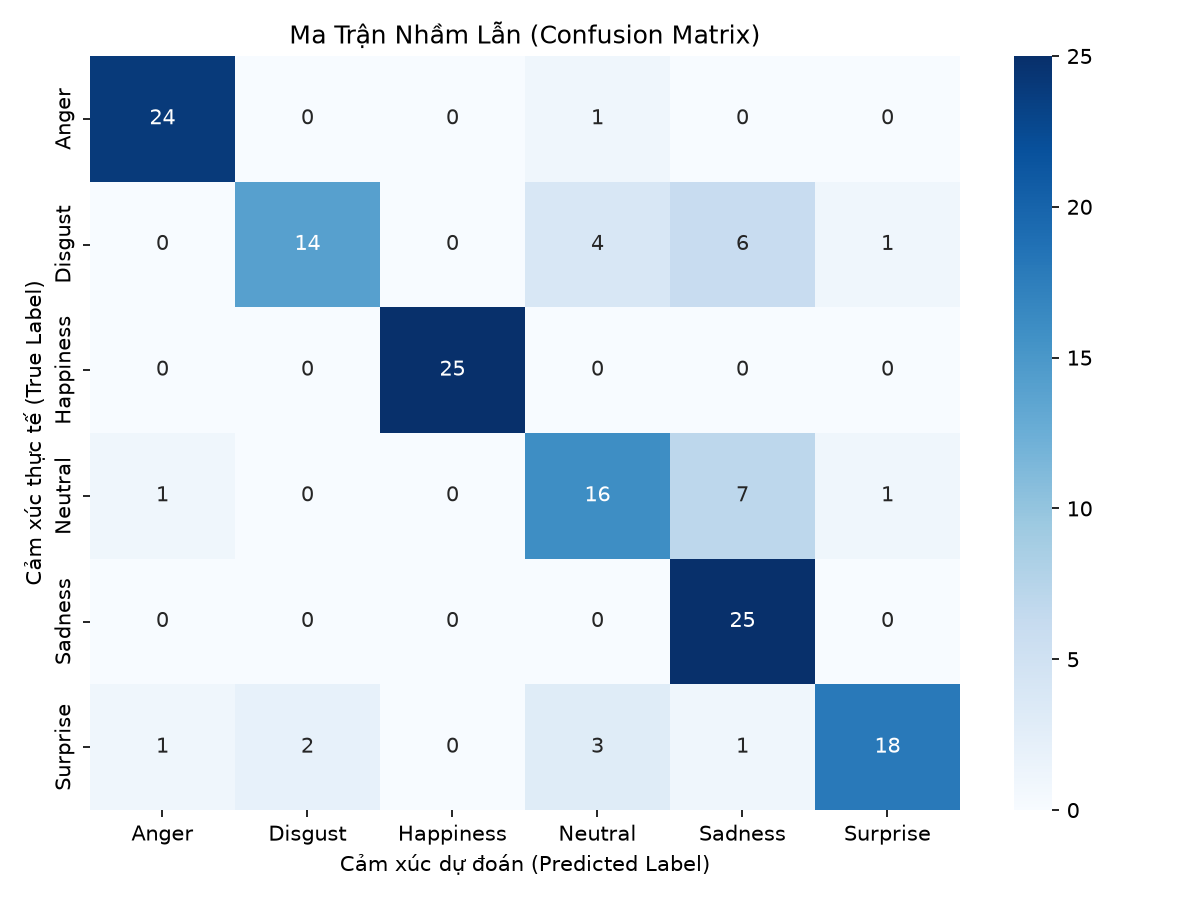
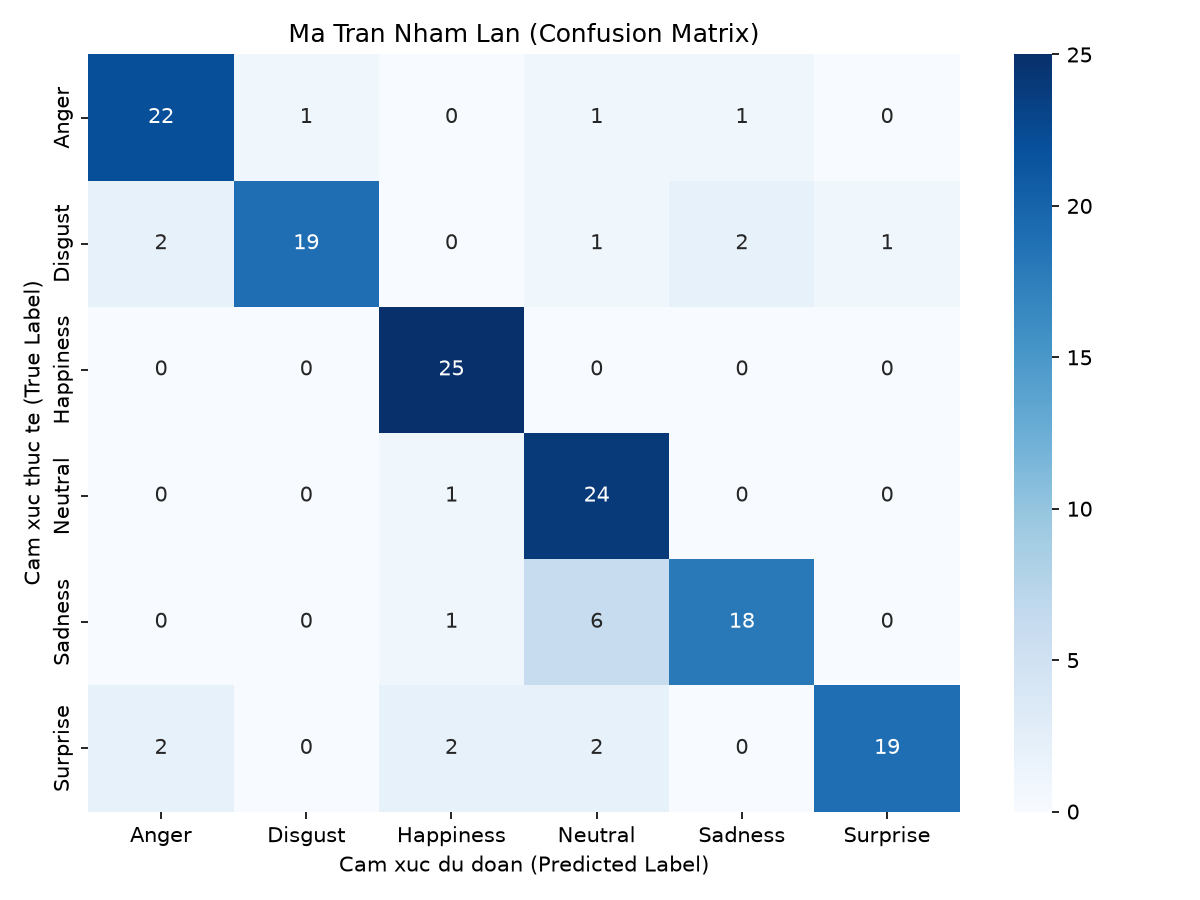
feat: integrate face cropping in evaluation script and clean test set

diff --git a/evaluate_note.py b/evaluate_note.py
@@ -1,6 +1,6 @@
 # -*- coding: utf-8 -*-
 """
-evaluate.py - Chuong trinh danh gia mo hinh tren tap kiem thu Dong Nam A
+evaluate.py - Chuong trinh danh gia mo hinh tren tap kiem thu Dong Nam A (co cat mat)
 Su dung: python evaluate.py
 """
 
@@ -24,7 +24,7 @@ def run_evaluation():  # [Dòng 16] Định nghĩa hàm run_evaluation thực hi
     y_true = []  # [Dòng 24] Khởi tạo mảng y_true trống để lưu lại danh sách nhãn cảm xúc đúng thực tế của ảnh.
     y_pred = []  # [Dòng 25] Khởi tạo mảng y_pred trống để lưu lại danh sách nhãn do AI dự đoán được.
 
-    print("\n--- Scanning test dataset ---")  # [Dòng 27] In thông báo bắt đầu quét tập dữ liệu kiểm thử ra màn hình.
+    print("\n--- Scanning test dataset with Face Cropping ---")  # [Dòng 27] In thông báo bắt đầu quét tập dữ liệu kiểm thử có dùng cắt mặt ra màn hình.
     for folder_name in EMOTIONS:  # [Dòng 28] Vòng lặp duyệt qua từng cảm xúc e trong 6 cảm xúc đích để quét các thư mục con tương ứng.
         folder_path = os.path.join(dataset_dir, folder_name)  # [Dòng 29] Tạo đường dẫn đầy đủ đến thư mục con của cảm xúc đó (ví dụ: dataset/test_dung1landuynhat/Happy).
         if not os.path.isdir(folder_path):  # [Dòng 30] Nếu thư mục con này không tồn tại, bỏ qua vòng lặp để tiếp tục quét thư mục khác.
@@ -39,38 +39,46 @@ def run_evaluation():  # [Dòng 16] Định nghĩa hàm run_evaluation thực hi
             if img is None:  # [Dòng 39] Nếu ảnh bị lỗi không đọc được (file hỏng), bỏ qua không xử lý ảnh này.
                 continue  # [Dòng 40] Bỏ qua vòng lặp hiện tại để xét ảnh tiếp theo.
                 
-            scores = eng.predict(img)  # [Dòng 42] Đưa ảnh vào hàm predict của EmotionEngine để chạy cân bằng sáng CLAHE và được AI trả về 6 điểm số cảm xúc.
-            idx = np.argmax(scores)  # [Dòng 43] Tìm vị trí (chỉ số index) của cảm xúc có điểm số lớn nhất.
-            conf = float(scores[idx])  # [Dòng 44] Lấy điểm tin cậy (phần trăm) của cảm xúc lớn nhất đó.
-            pred_emo = EMOTIONS[idx]  # [Dòng 45] Lấy tên chữ của cảm xúc dự đoán lớn nhất đó.
-            
-            if conf < eng.THRESH.get(pred_emo, .4):  # [Dòng 47] Kiểm tra với bộ ngưỡng nhạy thích nghi: nếu độ tin cậy thấp hơn ngưỡng quy định ở dòng 31 của main.py.
-                pred_emo = 'Neutral'  # [Dòng 48] Ép cảm xúc dự đoán về nhãn mặc định Neutral (Bình thường) để tránh AI dự đoán bừa.
+            faces = eng.detect(img)  # [Dòng 42] Dùng Haar Cascade dò tìm xem trong bức ảnh này có chứa khuôn mặt nào không.
+            if len(faces) > 0:  # [Dòng 43] Nếu tìm thấy ít nhất một khuôn mặt trong ảnh.
+                faces = sorted(faces, key=lambda f: f[2]*f[3], reverse=True)  # [Dòng 44] Sắp xếp chọn ra khuôn mặt có diện tích (rộng x cao) lớn nhất để xử lý.
+                x, y, w, h = faces[0]  # [Dòng 45] Rút ra tọa độ x, y và chiều rộng w, chiều cao h của khuôn mặt lớn nhất đó.
+                face_img = img[y:y+h, x:x+w]  # [Dòng 46] Thực hiện cắt lát ma trận ảnh để lấy riêng vùng khuôn mặt lưu vào biến face_img.
+            else:  # [Dòng 47] Trường hợp không dò tìm thấy khuôn mặt nào trong ảnh (ví dụ do ảnh mờ hoặc chụp nghiêng).
+                face_img = img  # [Dòng 48] Sử dụng giải pháp dự phòng: coi toàn bộ bức ảnh gốc chính là vùng khuôn mặt.
                 
-            y_true.append(EMOTIONS.index(folder_name))  # [Dòng 50] Lưu nhãn thực tế dạng số (chỉ số của thư mục con) vào mảng y_true.
-            y_pred.append(EMOTIONS.index(pred_emo))  # [Dòng 51] Lưu nhãn dự đoán dạng số (chỉ số của cảm xúc AI đoán) vào mảng y_pred.
+            scores = eng.predict(face_img)  # [Dòng 50] Đưa ảnh mặt vào hàm predict của EmotionEngine để chạy cân bằng sáng CLAHE và được AI trả về 6 điểm số cảm xúc.
+            idx = np.argmax(scores)  # [Dòng 51] Tìm vị trí (chỉ số index) của cảm xúc có điểm số lớn nhất.
+            conf = float(scores[idx])  # [Dòng 52] Lấy điểm tin cậy (phần trăm) của cảm xúc lớn nhất đó.
+            pred_emo = EMOTIONS[idx]  # [Dòng 53] Lấy tên chữ của cảm xúc dự đoán lớn nhất đó.
+            
+            if conf < eng.THRESH.get(pred_emo, .4):  # [Dòng 55] Kiểm tra với bộ ngưỡng nhạy thích nghi: nếu độ tin cậy thấp hơn ngưỡng quy định ở dòng 31 của main.py.
+                pred_emo = 'Neutral'  # [Dòng 56] Ép cảm xúc dự đoán về nhãn mặc định Neutral (Bình thường) để tránh AI dự đoán bừa.
+                
+            y_true.append(EMOTIONS.index(folder_name))  # [Dòng 58] Lưu nhãn thực tế dạng số (chỉ số của thư mục con) vào mảng y_true.
+            y_pred.append(EMOTIONS.index(pred_emo))  # [Dòng 59] Lưu nhãn dự đoán dạng số (chỉ số của cảm xúc AI đoán) vào mảng y_pred.
 
-    print("\n=== CLASSIFICATION REPORT ===")  # [Dòng 53] In tiêu đề báo cáo phân loại ra màn hình console.
-    report = classification_report(y_true, y_pred, target_names=EMOTIONS, digits=4)  # [Dòng 54] Gọi hàm classification_report để tự động tính toán Precision, Recall, F1-score của 6 lớp với độ chính xác 4 chữ số thập phân.
-    print(report)  # [Dòng 55] In bảng báo cáo phân loại chi tiết ra màn hình đen console.
+    print("\n=== CLASSIFICATION REPORT ===")  # [Dòng 61] In tiêu đề báo cáo phân loại ra màn hình console.
+    report = classification_report(y_true, y_pred, target_names=EMOTIONS, digits=4)  # [Dòng 62] Gọi hàm classification_report để tự động tính toán Precision, Recall, F1-score của 6 lớp với độ chính xác 4 chữ số thập phân.
+    print(report)  # [Dòng 63] In bảng báo cáo phân loại chi tiết ra màn hình đen console.
 
-    print("=== PLOTTING CONFUSION MATRIX ===")  # [Dòng 57] In thông báo bắt đầu vẽ biểu đồ ma trận nhầm lẫn.
-    cm = confusion_matrix(y_true, y_pred)  # [Dòng 58] Gọi hàm confusion_matrix của sklearn để tính toán ma trận nhầm lẫn giữa nhãn đúng và nhãn đoán.
+    print("=== PLOTTING CONFUSION MATRIX ===")  # [Dòng 65] In thông báo bắt đầu vẽ biểu đồ ma trận nhầm lẫn.
+    cm = confusion_matrix(y_true, y_pred)  # [Dòng 66] Gọi hàm confusion_matrix của sklearn để tính toán ma trận nhầm lẫn giữa nhãn đúng và nhãn đoán.
     
-    plt.figure(figsize=(8, 6))  # [Dòng 60] Tạo khung vẽ biểu đồ có kích thước rộng 8 inch, cao 6 inch.
-    sns.heatmap(cm, annot=True, fmt='d', cmap='Blues',   # [Dòng 61] Dùng Seaborn vẽ biểu đồ nhiệt (Heatmap) của ma trận: annot=True để in số lượng trực tiếp lên ô, cmap='Blues' tô màu xanh dương.
-                xticklabels=EMOTIONS, yticklabels=EMOTIONS)  # [Dòng 62] xticklabels và yticklabels giúp ghi tên các chữ cảm xúc lên hai trục ngang X và dọc Y của ma trận.
+    plt.figure(figsize=(8, 6))  # [Dòng 68] Tạo khung vẽ biểu đồ có kích thước rộng 8 inch, cao 6 inch.
+    sns.heatmap(cm, annot=True, fmt='d', cmap='Blues',   # [Dòng 69] Dùng Seaborn vẽ biểu đồ nhiệt (Heatmap) của ma trận: annot=True để in số lượng trực tiếp lên ô, cmap='Blues' tô màu xanh dương.
+                xticklabels=EMOTIONS, yticklabels=EMOTIONS)  # [Dòng 70] xticklabels và yticklabels giúp ghi tên các chữ cảm xúc lên hai trục ngang X và dọc Y của ma trận.
     
-    plt.title('Ma Tran Nham Lan (Confusion Matrix)')  # [Dòng 64] Đặt tiêu đề cho biểu đồ ma trận nhầm lẫn là 'Ma Trận Nhầm Lẫn (Confusion Matrix)'.
-    plt.ylabel('Cam xuc thuc te (True Label)')  # [Dòng 65] Đặt nhãn trục dọc Y biểu thị cảm xúc đúng thực tế (True Label).
-    plt.xlabel('Cam xuc du doan (Predicted Label)')  # [Dòng 66] Đặt nhãn trục ngang X biểu thị cảm xúc do AI dự đoán (Predicted Label).
-    plt.tight_layout()  # [Dòng 67] Tự động căn chỉnh lề biểu đồ để chữ không bị đè lên nhau.
+    plt.title('Ma Tran Nham Lan (Confusion Matrix)')  # [Dòng 72] Đặt tiêu đề cho biểu đồ ma trận nhầm lẫn là 'Ma Trận Nhầm Lẫn (Confusion Matrix)'.
+    plt.ylabel('Cam xuc thuc te (True Label)')  # [Dòng 73] Đặt nhãn trục dọc Y biểu thị cảm xúc đúng thực tế (True Label).
+    plt.xlabel('Cam xuc du doan (Predicted Label)')  # [Dòng 74] Đặt nhãn trục ngang X biểu thị cảm xúc do AI dự đoán (Predicted Label).
+    plt.tight_layout()  # [Dòng 75] Tự động căn chỉnh lề biểu đồ để chữ không bị đè lên nhau.
     
-    os.makedirs("reports", exist_ok=True)  # [Dòng 69] Tạo thư mục reports/ nếu thư mục này chưa có sẵn trên máy tính.
-    out_path = os.path.join("reports", "confusion_matrix.png")  # [Dòng 70] Thiết lập đường dẫn lưu tệp ảnh ma trận nhầm lẫn là reports/confusion_matrix.png.
-    plt.savefig(out_path, dpi=150)  # [Dòng 71] Lưu biểu đồ ma trận nhiệt thành file ảnh chất lượng cao 150 DPI.
-    plt.close()  # [Dòng 72] Đóng hình vẽ matplotlib để giải phóng bộ nhớ RAM.
-    print(f"Saved confusion matrix plot to: {out_path}")  # [Dòng 73] In thông báo đã lưu tệp ảnh ma trận nhầm lẫn thành công ra màn hình console.
+    os.makedirs("reports", exist_ok=True)  # [Dòng 77] Tạo thư mục reports/ nếu thư mục này chưa có sẵn trên máy tính.
+    out_path = os.path.join("reports", "confusion_matrix.png")  # [Dòng 78] Thiết lập đường dẫn lưu tệp ảnh ma trận nhầm lẫn là reports/confusion_matrix.png.
+    plt.savefig(out_path, dpi=150)  # [Dòng 79] Lưu biểu đồ ma trận nhiệt thành file ảnh chất lượng cao 150 DPI.
+    plt.close()  # [Dòng 80] Đóng hình vẽ matplotlib để giải phóng bộ nhớ RAM.
+    print(f"Saved confusion matrix plot to: {out_path}")  # [Dòng 81] In thông báo đã lưu tệp ảnh ma trận nhầm lẫn thành công ra màn hình console.
 
-if __name__ == '__main__':  # [Dòng 75] Điểm vào khởi chạy chính thức của chương trình Python khi gõ lệnh chạy từ terminal.
-    run_evaluation()  # [Dòng 76] Gọi hàm run_evaluation để thực hiện quy trình đánh giá.
+if __name__ == '__main__':  # [Dòng 83] Điểm vào khởi chạy chính thức của chương trình Python khi gõ lệnh chạy từ terminal.
+    run_evaluation()  # [Dòng 84] Gọi hàm run_evaluation để thực hiện quy trình đánh giá.

diff --git a/evaluate.py b/evaluate.py
@@ -1,6 +1,6 @@
 # -*- coding: utf-8 -*-
 """
-evaluate.py - Chuong trinh danh gia mo hinh tren tap kiem thu Dong Nam A
+evaluate.py - Chuong trinh danh gia mo hinh tren tap kiem thu Dong Nam A (co cat mat)
 Su dung: python evaluate.py
 """
 
@@ -24,7 +24,7 @@ def run_evaluation():
     y_true = []
     y_pred = []
 
-    print("\n--- Scanning test dataset ---")
+    print("\n--- Scanning test dataset with Face Cropping ---")
     for folder_name in EMOTIONS:
         folder_path = os.path.join(dataset_dir, folder_name)
         if not os.path.isdir(folder_path):
@@ -39,7 +39,15 @@ def run_evaluation():
             if img is None:
                 continue
                 
-            scores = eng.predict(img)
+            faces = eng.detect(img)
+            if len(faces) > 0:
+                faces = sorted(faces, key=lambda f: f[2]*f[3], reverse=True)
+                x, y, w, h = faces[0]
+                face_img = img[y:y+h, x:x+w]
+            else:
+                face_img = img
+                
+            scores = eng.predict(face_img)
             idx = np.argmax(scores)
             conf = float(scores[idx])
             pred_emo = EMOTIONS[idx]
